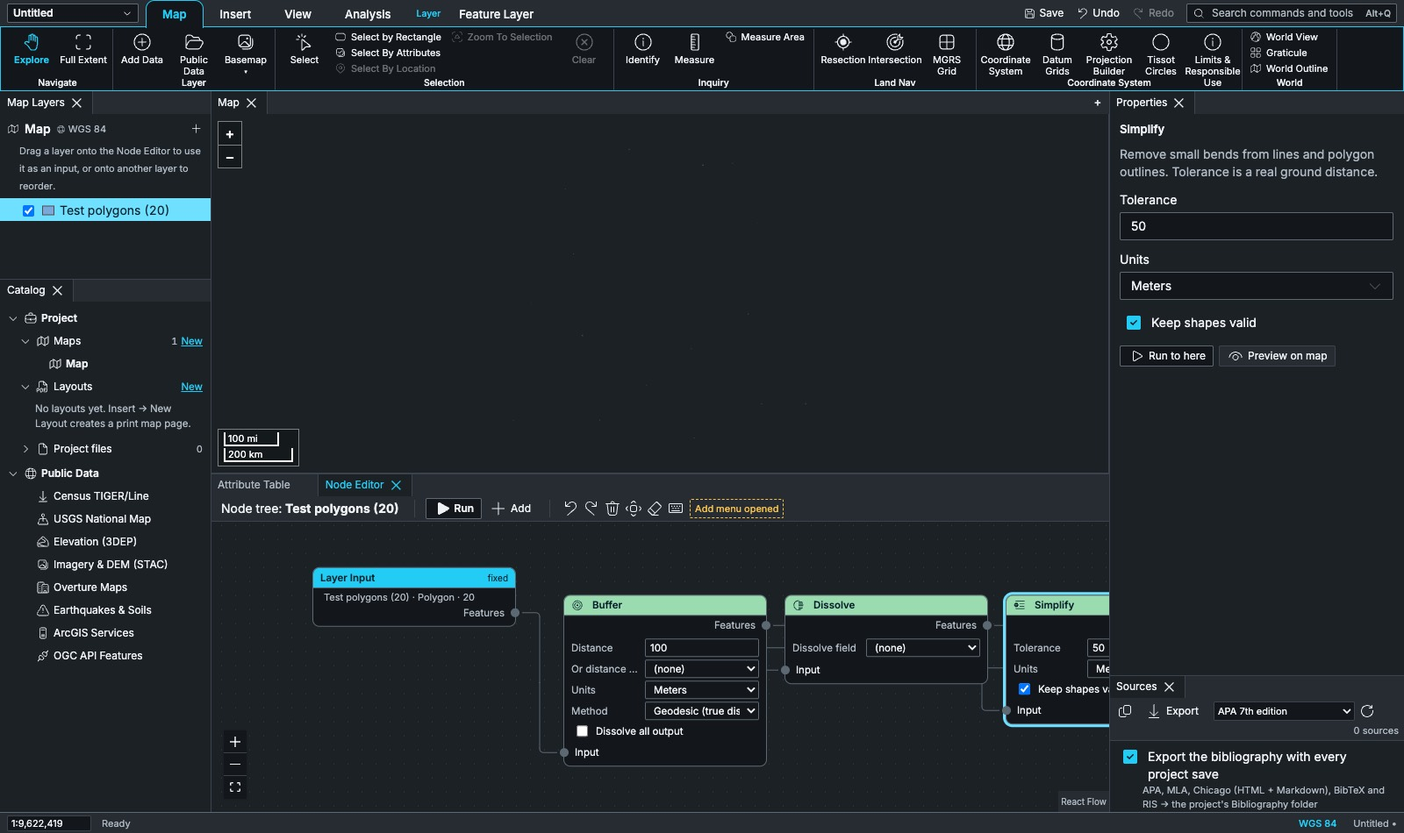
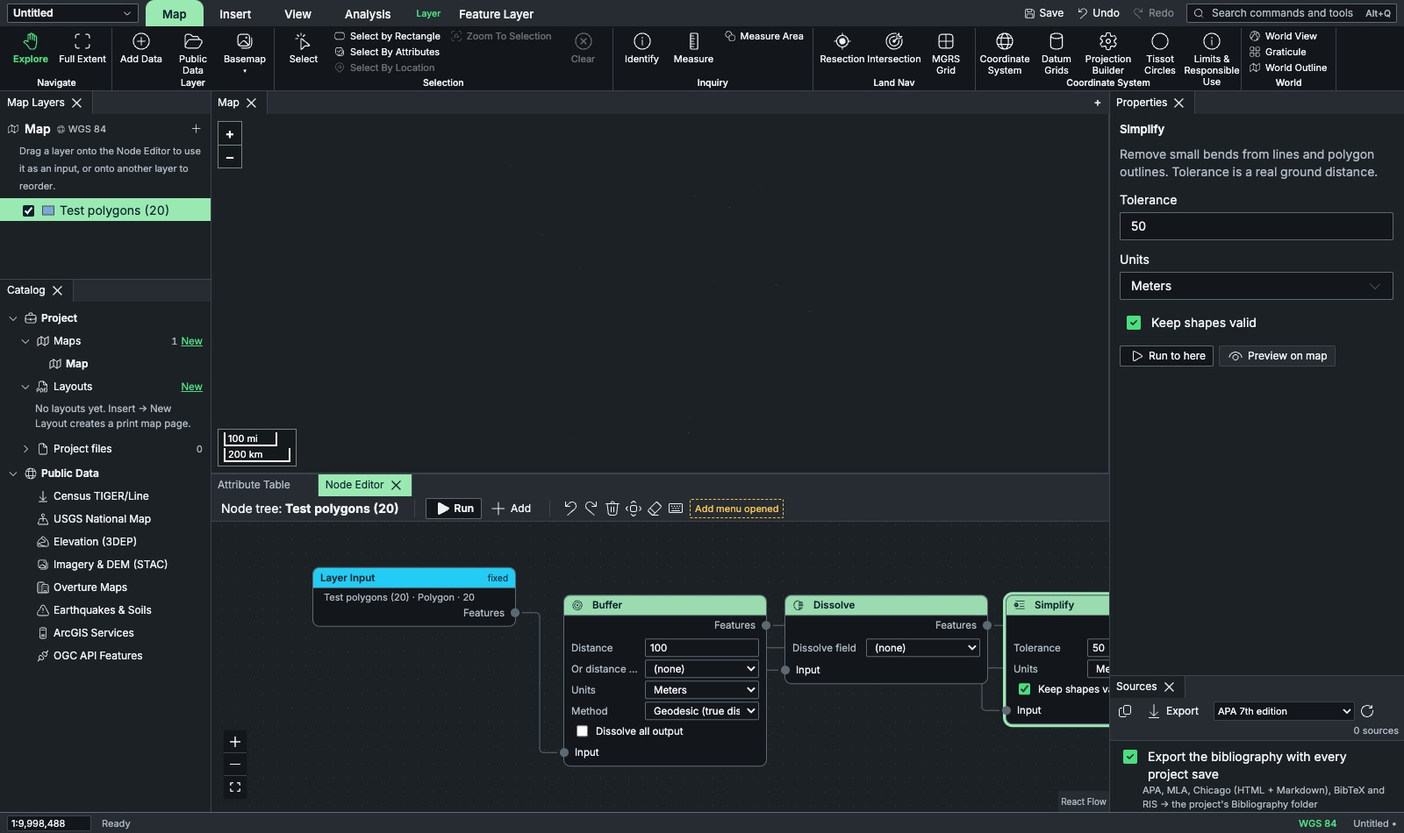
Checkboxes and layout selection follow the green; audit lists controls it cannot reach; docs and screenshots after the merge [skip ci]

diff --git a/ui/src/theme/layout.css b/ui/src/theme/layout.css
@@ -16,8 +16,8 @@
 .layout-img { position: absolute; inset: 0; width: 100%; height: 100%; pointer-events: none; user-select: none; }
 .layout-empty { position: absolute; inset: 0; display: flex; align-items: center; justify-content: center; color: #5a6068; pointer-events: none; }
 .layout-el { position: absolute; box-sizing: border-box; cursor: move; outline: 1px solid transparent; }
-.layout-el:hover { outline: 1px dashed rgba(43, 87, 154, 0.8); }
-.layout-el.on { outline: 2px solid #2b579a; }
+.layout-el:hover { outline: 1px dashed rgba(31, 122, 69, 0.8); }
+.layout-el.on { outline: 2px solid #1F7A45; }
 .layout-el.locked { cursor: not-allowed; }
 .layout-label { position: absolute; box-sizing: border-box; cursor: grab; outline: 1px solid transparent; z-index: 2; touch-action: none; }
 .layout-label:hover { outline: 1px dashed rgba(180, 60, 0, 0.9); }
@@ -25,7 +25,7 @@
 .layout-label.pinned { outline-color: rgba(194, 84, 0, 0.45); }
 .layout-label.hidden { outline: 1px dotted rgba(120, 120, 120, 0.8); background: rgba(255, 255, 255, 0.35); }
 .layout-label:active { cursor: grabbing; }
-.layout-handle { position: absolute; width: 8px; height: 8px; background: #fff; border: 1px solid #2b579a; box-sizing: border-box; }
+.layout-handle { position: absolute; width: 8px; height: 8px; background: #fff; border: 1px solid #1F7A45; box-sizing: border-box; }
 .layout-handle.nw { left: -4px; top: -4px; cursor: nwse-resize; }
 .layout-handle.n { left: calc(50% - 4px); top: -4px; cursor: ns-resize; }
 .layout-handle.ne { right: -4px; top: -4px; cursor: nesw-resize; }
@@ -62,7 +62,7 @@
 
 /* Chrome focus. Page overlays keep their own colours: the page is white in both themes. */
 .layout-canvas:focus-visible, .quad:focus-visible, .scale-input:focus-visible, .layout-outline .row:focus-visible { outline: 2px solid var(--focus); outline-offset: -2px; }
-.layout-el:focus-visible, .layout-label:focus-visible { outline: 2px solid #2b579a; outline-offset: 1px; }
+.layout-el:focus-visible, .layout-label:focus-visible { outline: 2px solid #1F7A45; outline-offset: 1px; }
 .layout-toolbar a, .layout-msg a, .layout-stat a { color: var(--link); }
 .layout-toolbar :is(button, a):hover, .layout-msg a:hover { color: var(--text); }
 .field-warn { color: var(--warn); font-size: 11px; margin-top: 4px; }

diff --git a/e2e/redesign.spec.ts b/e2e/redesign.spec.ts
@@ -33,6 +33,16 @@ const NO_CHANGE_OK: { match: RegExp; ctx?: RegExp; why: string }[] = [
   { match: /^Map$/, why: "View > Windows > Map shows the Map pane, which is already the visible one" },
 ];
 
+/** Disabled in every generic context, for a stated reason. Each is either a placeholder row, covered by name elsewhere, or listed as not exercised in docs/UI_REDESIGN_VERIFY.md. */
+const NEVER_USABLE_OK: RegExp[] = [
+  /No templates of yours yet$/, // placeholder row while there are no templates
+  /already on this map$/, // placeholder row when every layer is on the map
+  /\|Ungroup$/, // recorded as "Ungroup (after Group)" once a group exists
+  /\|Redo \(/, // needs an undo first; the Redo button runs after one in the map-model context
+  /\|Export Series/, // needs a map series: not exercised by this audit
+  /\|Preview on map$/, // needs a node result on the selected node: not exercised by this audit
+];
+
 // ---------------------------------------------------------------- page plumbing
 
 const CLICKABLE = [
@@ -632,5 +642,5 @@ test("audit: totals; no control is dead, throws, or stays disabled in every cont
   writeFileSync(testInfo.outputPath("audit.json"), out);
   if (process.env.E2E_AUDIT_JSON) writeFileSync(process.env.E2E_AUDIT_JSON, out);
   expect(REPORT_FAIL().map((r) => `${r.ctx} › ${r.area} › ${r.name}: ${r.result}${r.note ? ` (${r.note})` : ""}`), "controls that do nothing or throw").toEqual([]);
-  expect(neverUsable, "controls disabled in every context the audit tried").toEqual([]);
+  expect(neverUsable.filter((k) => !NEVER_USABLE_OK.some((re) => re.test(k))), "controls disabled in every context the audit tried").toEqual([]);
 });

diff --git a/ui/src/theme/base.css b/ui/src/theme/base.css
@@ -2,6 +2,7 @@
 html, body, #root { margin: 0; height: 100%; overflow: hidden; }
 body { font: var(--type-body); font-variant-numeric: tabular-nums; color: var(--text); background: var(--surface-0); user-select: none; }
 .app { display: flex; flex-direction: column; height: 100%; background: var(--surface-0); color: var(--text); }
+input { accent-color: var(--link); } /* native checkboxes and radios follow the highlight; a selected row sets --link to its text colour */
 .muted { color: var(--text-2); }
 .pad { padding: 10px; }
 .mono { font-family: var(--font-mono); font-size: 11.5px; }

diff --git a/docs/SERVER_CONNECTIONS_PLAN.md b/docs/SERVER_CONNECTIONS_PLAN.md
@@ -1,0 +1,88 @@
+# Server connections plan: REST and WMS
+
+_Written 2026-11-04 at the user's request. Plan only; nothing here is built. This replaces the earlier decision not to build WMS/WMTS display (`docs/DECISIONS.md`, Phase D6)._
+
+**Goal:** paste a server address, browse what it offers, and add its layers to a map. They stay live on the server, work on Earth and planetary maps, and can be printed or saved locally where that's allowed.
+
+**Where it fits:** after the bug batch and the Mac app test, and **before planetary**. Planetary's zoomed-in basemaps use the USGS WMS, so they can build on this instead of adding a second WMS path.
+
+---
+
+## 1. What exists today
+
+| Capability | State |
+|---|---|
+| ArcGIS REST: download vector features from a MapServer or FeatureServer, by bundled catalogue or pasted address (`arcgis.rs`) | Built |
+| ArcGIS REST: draw a service live on the map | Not built |
+| ArcGIS REST: browse a whole server's folders and services | Not built; only one service at a time |
+| ArcGIS ImageServer: download a clip | Only for 3DEP (`tnm.rs`), not general |
+| OGC API – Features download (`ogcapi.rs`) | Built |
+| WMS and WMTS on the map | Not built; the map only draws XYZ tiles, vector styles and the bundled raster |
+| WMS, WMTS and WFS in GDAL | The local build has the drivers. Windows and Linux builds need checking in `--self-test`. |
+| Printing from a tile service | Built for USGS through GDAL's WMS driver (`layout/basemap.rs`) |
+
+Checked 2026-11-04: the USGS planetary WMS and National Map REST server both answer and send `Access-Control-Allow-Origin: *`. Many other servers won't, which is why §3 fetches through the engine.
+
+---
+
+## 2. What the user sees
+
+**Add Server.** A new item in Catalog › Public Data and on the Data tab:
+1. Paste an address. The app works out the type: WMS, WMTS, ArcGIS REST, and WFS if included (§5). If it can't tell, it says so in a sentence.
+2. Browse the server's folders and layers, with name, description, scale range and coordinate systems.
+3. Add to Map, or for data services, Download.
+
+**Saved servers** appear under **Servers** in the Catalog, for reuse across projects. Only public servers for now; see §5.
+
+**Server layers in Map Layers** look like other layers, with an icon showing they're live:
+- on/off, order, opacity, and Zoom To Layer;
+- Properties shows the address, server layer, CRS, credit and legend;
+- identify, through the server's own query (`GetFeatureInfo` or `identify`);
+- no node tree or geoprocessing input, since there's no local data. A tool asking for one explains how to download a copy first.
+
+---
+
+## 3. How it works
+
+| Topic | Rule |
+|---|---|
+| **Layer type** | One new `server` layer type in the project, holding the address, protocol, server layer, chosen style or format, and credit. Layers stay project-wide and each map chooses them, as today. |
+| **Coordinate systems** | Request the map's own CRS if the server lists it. Otherwise OpenLayers reprojects from a CRS the server does offer, and the layer says so. **If there's no usable CRS or the body differs, it's refused in a sentence. Nothing is guessed.** |
+| **Fetching** | Through the engine's `gis://` protocol and the devserver, which solves servers without CORS headers and gives one disk cache with a size limit |
+| **Politeness** | A clear User-Agent, limited parallel requests, retries with backoff, and Cancel |
+| **Failure** | A server that's down or changed doesn't stop a project opening. The layer shows as unavailable with the reason. |
+| **Untrusted content** | Server text is shown as plain text, never as HTML. Only http and https addresses are accepted, and http gets a visible note. |
+| **Citations** | `sources.rs` records the server, layer, publisher and access date, and derived output keeps them |
+| **Project file** | Saved in the project, with a format version bump. If planetary hasn't shipped by then, the two changes can share one version. |
+
+**Printing.** Layouts render through GDAL's WMS and WMTS drivers, and ArcGIS through its `export` call, warped to the frame's CRS with the disk cache. Servers can have their own terms, which the app can't read for an address someone pasted. So a user-added server prints with its credit, and the export says it's your responsibility to check the provider's terms. Built-in basemaps with known restrictions stay refused.
+
+**Saving a copy.** "Save view as raster" clips the current area into a local raster for analysis, showing the size first and using the same limits and terms note.
+
+---
+
+## 4. Work packages
+
+| WP | Work | Done when | Sessions |
+|---|---|---|---|
+| **S1** | Server layer type, project format, `gis://` fetching and cache, WMS and WMTS on the map, Add Server, saved servers, legend, identify, credit | A WMS and a WMTS layer draw in Web Mercator, a UTM CRS and a polar CRS, then survive save and reopen. A server that's offline fails in words. | 1–1.5 |
+| **S2** | ArcGIS REST: browse a server, draw MapServer and ImageServer, identify, general ImageServer clip. Existing vector download moves into the same browser. | National Map drawn live, and a public ImageServer clip with the right CRS and citation | 1 |
+| **S3** | Printing and Save view as raster, plus a driver check in `--self-test` | A pixel test on a WMS frame; a saved raster matches the map's area | 0.5 |
+
+**Total: about 2.5–3 sessions.** Run in one Sonnet session, S1 then S2 then S3, per `docs/prompts/bugs-and-planetary-lead.md`.
+
+**Tests:** a small local fake server for WMS, WMTS and REST so tests don't depend on the network, including slow, offline and malformed responses; ignored network tests against USGS; CRS cases in Earth and, once planetary lands, on Mars; devserver parity for each new command.
+
+---
+
+## 5. Decisions
+
+**Defaults, unless the user changes them:**
+| Topic | Default | Why |
+|---|---|---|
+| Sign-in | Public servers only at first. If a server asks for a sign-in, it says so in words. | Tokens need the OS keychain and a separate flow; `CLAUDE.md` says never to store them elsewhere |
+| WFS | Include if it's cheap once the dialog exists, since GDAL's WFS driver reads it | Same dialog, but downloads rather than draws |
+| WCS | Leave out | Rarely needed; ImageServer and STAC cover most raster downloads |
+| OGC API – Maps and Tiles | Leave out for now | Not widely deployed yet |
+
+**Question for the user:** should people be able to sign in to private or token-protected servers in the first release? That adds about one more session. *Recommended: public only, and add sign-in after release.*

diff --git a/docs/prompts/ui-redesign.md b/docs/prompts/ui-redesign.md
@@ -1,0 +1,47 @@
+# Session prompt: UI redesign (Opus lead, Sonnet workers)
+
+Paste everything below the line into a new Opus session in this repo. Put the reference image in `docs/design/reference/` (any name) first, or give its path in the first message.
+
+---
+
+You are the lead designer-developer for a redesign of GIS Studio's user interface. Read `CLAUDE.md`, `PROJECT_STATUS.md` and `docs/MASTER_PLAN.md` first, then `docs/DECISIONS.md` only for the areas you touch. Use `graphify query "<question>"` before grepping the code.
+
+## Goal
+
+Make the app far more intuitive and give it a distinctive look of its own, taken from the **reference image** (`docs/design/reference/`; open it and describe to yourself what it does: layout, density, colour, typography, shape language, iconography, how it uses space). Take its character, not a copy: no brand names, logos or assets from it, and nothing that would make the app look like a clone of another product.
+
+## Two required outcomes
+
+1. **A new visual and interaction design** based on the reference image: a coherent design system (colour tokens for light and dark, type scale, spacing, radius, elevation, icon set, motion), applied to the whole app: ribbon, panes, node cards, dialogs, layout workspace, map chrome. Define it once as theme tokens on top of Fluent UI v9, not as scattered overrides.
+2. **Every geoprocessing tool is reached primarily through the Shift+A menu**, not through a pane.
+   - Shift+A (also right-click on the node canvas and a ribbon "Add tool" button) opens one searchable, categorised menu of all tools. Typing filters immediately; recently used and favourites at the top; each entry shows icon, name, one-line description and, on hover, a short preview of inputs and outputs. Keyboard-only use must work end to end (arrows, Enter, Esc, type to search).
+   - The menu reads the existing `ToolSpec` catalogue through `tool_specs`. Do **not** add a parallel list of tools.
+   - Toolbox/tool-list panes stop being the main way in. Either remove them or demote them to a thin "browse all" view that opens the same menu. Say which in your plan.
+   - Dropping a tool places a node card with its settings inside it (keep the Blender-style cards), connected where it makes sense.
+   - Check that every tool in `nodes/mod.rs` appears in the menu and is findable by at least its name and a plain-language synonym (for example "cut" finds Clip, "merge" finds Union and Merge Rasters).
+
+## Keep (do not redesign away)
+
+Ribbon + dockable panes structure; node cards with settings inside; one node tree per layer with fixed Layer Input and Output; Output never modifies source data; engine errors as readable sentences through the error pop-up; explicit CRS shown, never guessed. You may restyle and re-arrange these; you may not remove the capabilities.
+
+## How to work
+
+1. **Plan first (you, Opus).** Write `docs/UI_REDESIGN_PLAN.md`: what you saw in the reference, the design tokens, the information architecture (what lives where and why), the Shift+A menu spec, a screen-by-screen list of what changes, and a task list split into small, independent work packages (acceptance criteria each, files touched, and which packages can run in parallel without touching the same files). Keep it short and decisive.
+2. **Show me the design before the build.** Make one HTML mock-up or screenshot of the main screen (map + nodes + menu open) in the new style and stop for my OK. Everything before that point is cheap to change; after it, it is not.
+3. **Delegate the implementation to Sonnet sessions** to save usage. You decide and review; they write code. Start them with `mcp__ccd_session__start_session` (one per work package, in worktrees, never two writers on the same files). Each brief must name the files/area, the acceptance criteria, the design tokens to use, and say to run `graphify query` before searching code. Review each result (diff and a look at the running UI) before accepting it.
+4. **Decision authority for Sonnet sessions.** They may decide without asking: spacing, alignment, icon choice within the chosen set, microcopy wording (plain, short, no jargon), hover/focus/disabled states, empty states, keyboard shortcuts that don't clash with existing ones, component structure, and refactors needed to apply the tokens. They must come back to you (not to me) for: any change to how a tool behaves, any removal of a feature, any new dependency, any change to the design tokens, and anything that doesn't fit the plan. You come to me only for product-direction questions the plan does not cover.
+5. **Verify through the real UI.** Run the dev server (`cargo build --release -p devserver && ./target/release/devserver`, then `npx vite`) and drive it in the in-app browser: open Shift+A, search, add three different tools, connect them, run, export a layout. Check light and dark, a narrow window, keyboard-only use, and the Layout workspace. Save before/after screenshots in `docs/screenshots/ui-redesign/`.
+
+## Rules that still apply
+
+- Tests: `npx vitest run && npx tsc -p tsconfig.json` and `cargo test -p engine` must pass before any push; update or add Playwright/e2e cases for the new menu; add rows to `docs/TEST_PLAN.md`; log bugs in `docs/BUGS.md`; record design decisions in `docs/DECISIONS.md`.
+- Every new Tauri command is also added to `crates/devserver` (you should need none).
+- Accessibility: contrast AA in both themes, visible focus, everything reachable by keyboard, labels on icon-only buttons.
+- New fonts or icon sets: permissive licence only, bundled (no network at runtime), recorded in `docs/OPEN_SOURCE.md` and `THIRD_PARTY_NOTICES.md` (`python3 scripts/third_party_notices.py`).
+- Work on a branch; one commit per work package; push only with `[skip ci]`. Never create or push git tags. Never force-push or rewrite history on main. Never push a branch whose tests fail. Never commit `.claude/`, build artifacts, `test-projects/` or `Madera County.gproj/`.
+- Ask me before anything outward-facing beyond pushing to this repo (releases, issues, external services). No API keys or accounts.
+- Update `PROJECT_STATUS.md` and the status doc before ending the session; run `graphify update .` after code changes.
+
+## Definition of done
+
+The app shows the new design everywhere; a new user can find and add any geoprocessing tool from Shift+A without opening a pane; all tests pass; before/after screenshots are saved; the plan, decisions and test-plan docs are updated; and you report what changed, what you decided, and anything left for me.

diff --git a/PROJECT_STATUS.md b/PROJECT_STATUS.md
@@ -8,7 +8,7 @@ Phases A (code), B, D, E and H are done. C's main work is built. R is built exce
 Before a release: finish and merge the UI redesign, fix the open bugs and test a rebuilt Mac app, build F, do the one full CI push (R7) and fix what it finds, rebuild the Mac app, run the open manual checks (Windows and Linux installers, M-31, M-32), then you push the tag.
 
 ## Exact next action
-- **UI redesign (2026-11-03, branch `ui-redesign`, `docs/UI_REDESIGN_PLAN.md`):** every work package is built; **WP9 (verify) is merged into `ui-redesign`; nothing pushed.** WP9: the bottom panel closes under a layout (back on Back to Map), Items is the left column with Catalog under it (option B), MM-1/MM-2 fixed, Run outlined, UI-1 fixed in CSS, gallery tiles pre-select their Topo preset; a control audit (`e2e/redesign.spec.ts`: 827 controls clicked, none dead, 22 stop at a native file dialog), AA/label/focus checks and a walk-through (light, dark, 1024 px, keyboard only, layout) with screenshots; results and limits in `docs/UI_REDESIGN_VERIFY.md`. Open from WP9: MM-4 (more layer lists still read the active map's `order`), LE-1 (named text styles not saved in the project). **Not checked: the packaged app, Windows, Linux, WebKit.** Next: the user decides on the push.
+- **UI redesign (2026-11-03, branch `ui-redesign`, `docs/UI_REDESIGN_PLAN.md`):** every work package is built; **WP9 (verify) is merged into `ui-redesign`; nothing pushed.** WP9: the bottom panel closes under a layout (back on Back to Map), Items is the left column with Catalog under it (option B), MM-1/MM-2 fixed, Run outlined, UI-1 fixed in CSS, gallery tiles pre-select their Topo preset; a control audit (`e2e/redesign.spec.ts`: 827 controls clicked, none dead, 22 stop at a native file dialog), AA/label/focus checks and a walk-through (light, dark, 1024 px, keyboard only, layout) with screenshots; results and limits in `docs/UI_REDESIGN_VERIFY.md`. Open from WP9: MM-4 (more layer lists still read the active map's `order`), LE-1 (named text styles not saved in the project). After the merge: the default highlight is light green and only the selected tab is coloured (no outline round the tab or ribbon band); Mod+Z, Mod+Shift+Z and Mod+Y work across the app. Last full e2e 188 passed, 3 failed, 1 skipped, all three dealt with and rerun in part (`docs/UI_REDESIGN_VERIFY.md`, BUGS E2E-4); engine 540 passed. **Not checked: the packaged app, Windows, Linux, WebKit.** Next, in this order: the user decides on the push, fix the open bugs worth fixing, rebuild and test the Mac app, then build planetary (Phase F).
 - **USNG / MGRS (2026-10-30):** three tools (Add USNG / MGRS Field, USNG / MGRS to Points, USNG / MGRS Grid), USNG/MGRS columns in Export Table, USNG and MGRS buttons in the coordinate system dialog that pick the UTM zone of the view. Checked against the `mgrs` package and NGA GeoTrans. Polar (UPS) references done; MGRS Grid button on the map; USNG/MGRS column in Export Features; defaults MGRS / 1 km / WGS 84. Not built: UPS squares in the grid tool.
 - **USGS classic + military sheets (2026-10-30, `docs/TOPO_USGS_PLAN.md`, `docs/TEST_PLAN.md` TU):** Insert → Topo Map now has Sheet style (land navigation / USGS quadrangle / military installation) and Symbol look (classic / modern), presets "USGS quadrangle 1:24,000" and "Military installation map 1:50,000 (A2)", A2/A1 paper, and step 4 "Apply topographic symbols" (by layer name and geometry; lists what it skipped). New underneath: stroke stacks (casings, rail ties; map + layouts + legends), a symbol catalogue of ≈ 90 symbols from the USGS "Topographic Map Symbols" sheet plus the military overlay (engine `topo_symbols.rs`, picker in Properties › Symbology › Topographic symbol), patterns (marsh, orchard, vineyard, scrub, sand, gravel), markers, legend entries by symbol id, legend `auto: false`. Sheets: title block, 3 scale bars, contour/datum notes, declination, road-classification key, adjoining quads (USGS); military legend, viewpoint and facilities boxes, mils declination, grid-reference box. Pixel tests and two rendered showcase pages checked by eye. Not built: purple revisions, USGS lettering/label placement, facilities table from data, GeoPDF. Not yet checked in the packaged app.
 - **K-2 (2026-10-30, user-confirmed):** the Add menu (right-click, Shift+A) was opening off-screen inside the dock pane; now rendered on the page. WebKit e2e: `E2E_WEBKIT=1 scripts/e2e.sh <out> <spec>`. **Next:** LW9 remainder (vector data, coordinate scale, templates), then LW7/LW8.
@@ -52,7 +52,8 @@ e2e M-4 fails on the WP9 branch because of CRS-1 (`docs/BUGS.md`).
 1. Finish WP9, merge it, then merge `ui-redesign` into `main`.
 2. Fix the open bugs worth fixing (`docs/BUGS.md`).
 3. Rebuild the Mac app and test it directly: it doesn't include the UI redesign yet.
-4. Build Phase F, planetary (`docs/PLANETARY_PLAN.md` §10), once you've answered its §12. Craterstats is bundled, with model ages in the first release (user, 2026-11-04).
-5. R7: one full CI push on all three platforms, and fix what it finds.
-6. Rebuild the Mac app again and run the open manual checks: Windows and Linux installers (A3), keychain (M-31), hydrology (M-32).
-7. You push the `v0.1.0` tag.
+4. Build server connections: REST and WMS (`docs/SERVER_CONNECTIONS_PLAN.md`).
+5. Build Phase F, planetary (`docs/PLANETARY_PLAN.md` §10), once you've answered its §12. Craterstats is bundled, with model ages in the first release (user, 2026-11-04).
+6. R7: one full CI push on all three platforms, and fix what it finds.
+7. Rebuild the Mac app again and run the open manual checks: Windows and Linux installers (A3), keychain (M-31), hydrology (M-32).
+8. You push the `v0.1.0` tag.

diff --git a/docs/prompts/bugs-and-planetary-lead.md b/docs/prompts/bugs-and-planetary-lead.md
@@ -1,0 +1,62 @@
+# Open bugs and planetary: lead session
+
+You are the Opus lead for GIS Studio's remaining build: the open bugs, then REST and WMS server connections, then planetary GIS. Use `claude-opus-5-5`. Run `graphify query "<question>"` before searching code.
+
+Read only: `CLAUDE.md`, `PROJECT_STATUS.md`, the Open bugs section of `docs/BUGS.md`, and, when you reach them, `docs/SERVER_CONNECTIONS_PLAN.md` and `docs/PLANETARY_PLAN.md`. Read other docs only for the area you touch.
+
+## Keep usage low: this comes first
+
+The user's instruction: keep as many tasks as possible in the same sessions, and keep reusing the same Sonnet session.
+
+- **One Sonnet session at a time by default.** Start it with `model: claude-sonnet-5-5` and `use_worktree: true`. Give the next task to that same session with `SendMessage`, not a new session. It already knows the code and the rules, so don't re-explain them.
+- **Start another session only when** two tasks must run at the same time and touch different files, or the current session is near its limit, stalled, or has filled up with unrelated context. When you replace one, give the new session a short brief, not a history.
+- **Opus only for** deciding, reviewing risky code, and hard debugging. Sonnet writes code. If a debugging job needs Opus, start one Opus session and reuse it the same way.
+- **Do the work inline** when it's a few tool calls. Don't spawn a session or subagent for a small read or edit.
+- **Tell workers:** run `tsc`, vitest and only the e2e specs you touched. Don't end your turn to wait for a test. Run long tests in the foreground with a timeout. Use your own ports (`GIS_DEVSERVER_ADDR`, `GIS_VITE_PORT`, `VITE_GIS_DEVSERVER`) and kill only your own processes, by PID.
+- **You:** one full `scripts/e2e.sh` and one real-app review per merge batch. Read closely only what can damage data or correctness: CRS, geodesics, the project format and old-project migration, licences. Grep the rest.
+- **Don't poll.** You're woken when a session finishes. Check a worker's report against its diff before telling the user it's done.
+- The app only starts sessions from the user's own message. When you need a new session, ask for one message, and batch what you need into it.
+
+## Work, in order
+
+**Batch 1: open bugs, one Sonnet session, one commit per bug.**
+- **U-6:** blank layer after New Project; add an e2e test.
+- **MM-4:** layer lists reading the active map's `order`. Decide what each list should mean before fixing: a node input may mean any project layer; a layout frame list means the frame's map.
+- **TP-11:** result rasters inherit the DEM renderer.
+- **LE-1:** named text styles aren't saved in the project; needs an engine field and a project format check.
+- **E2E-3:** flaky test; fix only if it recurs. **C-1b** stays accepted; don't work on it.
+
+Then stop and report, and tell the user the bug batch is ready for the Mac app rebuild and test. That rebuild is handled outside this session. Don't start Batch 2 until the user says that test is done.
+
+**Batch 2: server connections, `docs/SERVER_CONNECTIONS_PLAN.md` §4.**
+- **S1, S2, S3:** give them to the same Sonnet session, in order, reviewing and merging each before sending the next.
+- Read closely: the project format change, the CRS rule, and how untrusted server text is handled.
+- Public servers only unless the user says otherwise.
+
+**Batch 3: planetary, `docs/PLANETARY_PLAN.md` §10.**
+- **P0:** you do this spike yourself, and correct the plan if it was wrong.
+- Use the server layer from Batch 2 for the USGS WMS basemaps; don't add a second WMS path.
+- **P1 to P6:** give them to the same Sonnet session one at a time, in order, reviewing and merging each before sending the next. Replace the session only by the rule above. The plan allows some parallel work, but use it only if the user asks for speed over usage.
+- **P1:** read the pivot and geodesic diff closely. Earth test values must not change.
+- **P7:** you run the final check.
+
+## Decided by the user, don't reopen
+
+- The extraterrestrial mode belongs to each map, chosen when the map is created.
+- Server connections, then planetary, are the last features before the first release. The Python SDK comes after.
+- An open tool goes in directly if it and all its libraries can be packaged inside the app. Craterstats is bundled, with crater model ages in the first release.
+- Defaults unless the user says otherwise (plan §12): Moon and Mars get everything; Mercury, Venus and Europa get a basemap and curated data.
+
+## Rules
+
+- Tests pass before any push. Push only with `[skip ci]` in the head commit. Never create or push tags. Never force-push.
+- Never commit `.claude/`, build artifacts, `test-projects/` or `Madera County.gproj/`.
+- New open-source software, data or methods go in `docs/OPEN_SOURCE.md` in the same commit, and `THIRD_PARTY_NOTICES.md` when the shipped set changes.
+- Every new Tauri command is also added to `crates/devserver`.
+- No API keys or accounts. Ask before anything outward-facing beyond this repo, including contacting data providers.
+- Fixed bugs move from Open to Closed in `docs/BUGS.md`. New features add cases to `docs/TEST_PLAN.md`.
+- Keep `PROJECT_STATUS.md` current, add a Change log row to the "GIS Studio — Project Status" doc after each change (https://claude.ai/artifact/5Pvx6sQMhUVcsJeijMbrAj), and run `graphify update .` before ending.
+
+## When you report
+
+Say what changed, what passed, what wasn't checked, and what you need from the user, in a few short lines.

diff --git a/docs/UI_REDESIGN_VERIFY.md b/docs/UI_REDESIGN_VERIFY.md
@@ -45,3 +45,12 @@ Text contrast is computed from the browser's colours (text against the first opa
 - e2e on my own devserver, the specs this work touches or could affect (layout*, map, multi-map, shift-a, model, table, misc, series, templates, topo, split, dock-overflow, ribbon-width, crs-ui, catalog, basemaps, appearance, choose-layer, plus the new a11y and walk-through specs): 141 passed, 0 failed after one test change below. The whole `scripts/e2e.sh` was **not** run by me; the lead runs it on the merge.
 - Test edits for changed behaviour (targets, not dropped checks): `layout-items.spec.ts` "Model canvas stays tall" now asserts the Node Editor is gone under a layout; `catalog.spec.ts` CAT-3 goes Back to Map before looking at Map Layers, which a layout now replaces with Items.
 - Seen flaky once and passing on re-run: `layout-editor.spec.ts` "keyboard: the rail, the tabs of Properties and the menus work without a mouse" (timed out in one batch).
+
+## After the merge (lead, 2026-11-04)
+Full `scripts/e2e.sh` on the merge with the green highlight: 188 passed, 3 failed, 1 skipped (46.7 min, of which the audit is 38). `cargo test -p engine`: 540 passed, 0 failed, 28 ignored.
+- World view framing failed because MM-1's framing also fired under World View: fixed, rerun passes.
+- The search test failed on a 120 ms close timer that survived coming back to the box: fixed, rerun passes.
+- The audit totals test had never run on the whole file. It failed on two controls marked dead, which were clean when their sections were rerun (BUGS E2E-4), and on controls disabled in every context, now listed with reasons in `NEVER_USABLE_OK`.
+Rerun after the fixes: 33 of 33 on the shortcut, world, map, layout editor, choose-layer and model specs; 11 of 12 on AA, walk-through and the layout, pane and more-state audit sections (0 dead, 0 threw; the one failure was the disabled list); 10 of 10 after that list was added. The whole suite was not run again after the last fixes.
+Not exercised by the audit: Export Series and Preview on map.
+

diff --git a/docs/BUGS.md b/docs/BUGS.md
@@ -15,6 +15,7 @@ Updated 2026-11-04, after the WP9 merge.
 | TP-11 | Not rated | Partly fixed 2026-10-30: warnings added for Extract Streams with an unsuitable threshold and for Flow Accumulation given a flow-direction raster. Result rasters still inherit the DEM renderer, so they are invisible until restyled. (T6-3, T6-4, T6-6) | Give result rasters their own default renderer. |
 | C-1b | Low | **Accepted.** DuckDB's embedded PROJ and libproj (cs2cs) pick equivalent datum operations that differ by up to ~12 cm for NAD83/ETRS89 ↔ WGS 84 and up to ~3.3 m for NAD27 away from the NADCON anchor. The anchor itself agrees to 1.3 cm. Test: `crs_reference.rs` datum_tol. | A full match needs transforms through GDAL's libproj instead of DuckDB (a large change across ~49 call sites): decide with F1. |
 | E2E-3 | Low | `misc.spec.ts` M-25 (progress UI, cancel) failed once in a full run on 2026-10-28 (waiting for the "cancelled" status, 60 s) and passed on the next two runs with no change to that code. | Flaky; watch it. |
+| E2E-4 | Low | In the one full run of `scripts/e2e.sh` (2026-11-04) the control audit marked two controls dead: Export resolution and one Formatted page item in Sources. Both passed when their audit sections were rerun (0 dead), so this looks like timing under load. | Watch the next full run; if it repeats, make the audit wait longer. |
 | MM-4 | Low | The same fault as MM-2 remains in the tool menu's and node cards' "Choose a layer" lists, the Properties pane's layer picker, the layout frame and element layer lists, and the area-of-interest pickers of the Overture, ArcGIS, STAC, National Map, Elevation, OGC and Hazards dialogs. Found by WP9, 2026-11-04. | Each list needs its own check of what "the map's layers" should mean there, then the MM-2 fix (`projectLayerIds`). |
 
 ## Closed bugs

diff --git a/docs/PLANETARY_PLAN.md b/docs/PLANETARY_PLAN.md
@@ -75,7 +75,7 @@ Everything here was run against the current `ui-redesign` engine, PROJ 9.8.1 and
 ### The finding that changes the old plan
 **The USGS global mosaics are not cloud-optimized.** MOLA has one-row strips and no overviews, and there's no `.ovr` file. Drawing it at 512×256 took **2 minutes 13 seconds**. They can't be used as live basemaps, though clipping a small area remains practical. So:
 - Each main body gets a **small bundled basemap**, the way Natural Earth works today. It draws offline, in any CRS, and prints in layouts.
-- Detail while zoomed in comes from the **USGS WMS** on screen, which already serves Mars in its IAU CRS. NASA Trek is the backup, and bundled basemaps plus downloaded clips are the fallback.
+- Detail while zoomed in comes from the **USGS WMS**, which already serves Mars in its IAU CRS, through the server layer in `docs/SERVER_CONNECTIONS_PLAN.md`. NASA Trek is the backup, and bundled basemaps plus downloaded clips are the fallback.
 
 ---
 
@@ -226,7 +226,7 @@ Existing tools become correct once §8 lands. The new tools below are built from
 
 Same way of working as the redesign: Opus reviews and merges, Sonnet writes code, one commit per package, `[skip ci]`, and one full test run and one real-app review per batch. **Read closely: pivots, geodesics, project format, licences.**
 
-**Starts after** the UI redesign merges into `main`, because this builds on multiple maps and basemaps, and after the open bugs are fixed and a rebuilt Mac app has been tested (user, 2026-11-04).
+**Starts after** the UI redesign merges into `main`, because this builds on multiple maps and basemaps, and after the open bugs are fixed, a rebuilt Mac app has been tested, and server connections are built (user, 2026-11-04).
 
 | WP | Work | Done when | Sessions |
 |---|---|---|---|

diff --git a/docs/MASTER_PLAN.md b/docs/MASTER_PLAN.md
@@ -77,6 +77,7 @@ _Written 2026-10-23, updated 2026-11-04 (phase status table in §3 and the seque
 | F. Planetary GIS | Full plan rewritten 2026-11-04, not built. **The last feature before the first release (user, 2026-11-04).** | Build P0–P7 in `PLANETARY_PLAN.md` after the UI redesign merges, the open bugs are fixed and the Mac app is rebuilt and tested |
 | G. Python SDK + CLI | Not built; moved to after the first release | Nothing before release |
 | H. Advanced analysis | ✅ Complete | Hydrology is untested in the packaged app (M-32) and on Windows and Linux (R7). Supervised classification not built. |
+| Server connections (REST, WMS, WMTS) | Plan written 2026-11-04, not built | S1–S3 in `SERVER_CONNECTIONS_PLAN.md`, after the bug fixes and Mac test and before planetary |
 | UI redesign | WP1–WP8b and WP10–WP13 merged on `ui-redesign`; not pushed | WP9 final verification, then merge into `main` |
 
 **Effort** is counted in focused sessions, not days. At about one to two sessions per working day, each session takes 0.5–1 day. Ranges include the usual CI and fix rounds; the history so far shows each platform problem costs 1–3 extra rounds.
@@ -233,6 +234,7 @@ H  Advanced analysis     complete
 UI UI redesign           ← now: WP9 final verification on branch ui-redesign
 -- Bug fixes             the open bugs worth fixing (docs/BUGS.md)
 -- Mac app               rebuild and test the redesign in the packaged app
+S  Server connections    REST and WMS (docs/SERVER_CONNECTIONS_PLAN.md)
 F  Planetary GIS         last feature before the first release (docs/PLANETARY_PLAN.md)
 R7 One full CI push      at the very end (your skip-CI rule); fix what it finds
 -- First release, fine tuning

diff --git a/docs/DECISIONS.md b/docs/DECISIONS.md
@@ -275,7 +275,7 @@ Accepted as written: RD-1 (reference hierarchy; never the engine's own output), 
 
 ### D6 — JSON APIs and soils
 - Built: USGS earthquakes (FDSN GeoJSON; Oklahoma-size queries stay under the 20 000-event limit, larger ones are told to narrow) and NRCS SSURGO map units through Soil Data Access (polygon intersection query; area limited to 0.25° because the polygons are large). Both verified against the live services.
-- Not built, on purpose: **WMS/WMTS display** (a new map layer type in the OpenLayers view with its own CRS and legend handling: its own task, and the layout renderer would need to print it) and **NASA POWER** (a time series for a point, a table rather than a map layer; it belongs with the future table/chart tools). The ribbon has no placeholder for either.
+- (WMS/WMTS display is now planned: user, 2026-11-04, `docs/SERVER_CONNECTIONS_PLAN.md`.) Not built, on purpose: **WMS/WMTS display** (a new map layer type in the OpenLayers view with its own CRS and legend handling: its own task, and the layout renderer would need to print it) and **NASA POWER** (a time series for a point, a table rather than a map layer; it belongs with the future table/chart tools). The ribbon has no placeholder for either.
 
 ### E — Raster foundation (E1–E3)
 - Reuse over reimplementation (user's usage concern, 2026-10-29): GDAL does translate, warp, mosaic, fill-nodata, rasterize and gdaldem; the calculator evaluates expressions with the MIT `fasteval` crate instead of a hand-written parser, and adds the functions raster people expect (`sqrt exp ln pow atan2 if`) through its namespace hook. QGIS algorithm ids are cited, no QGIS code is used.
